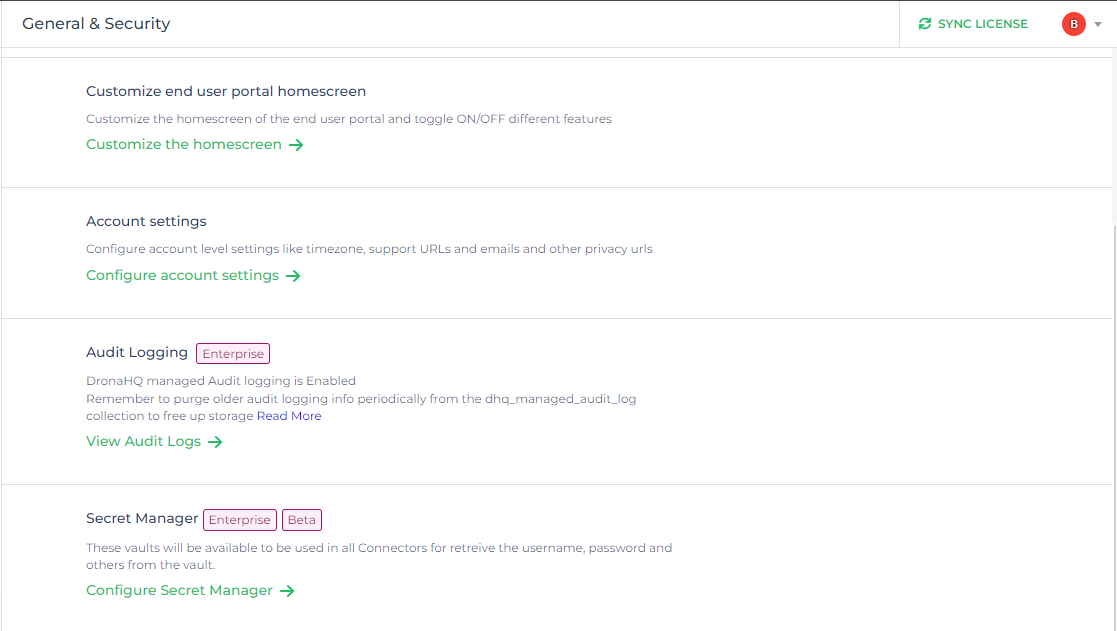
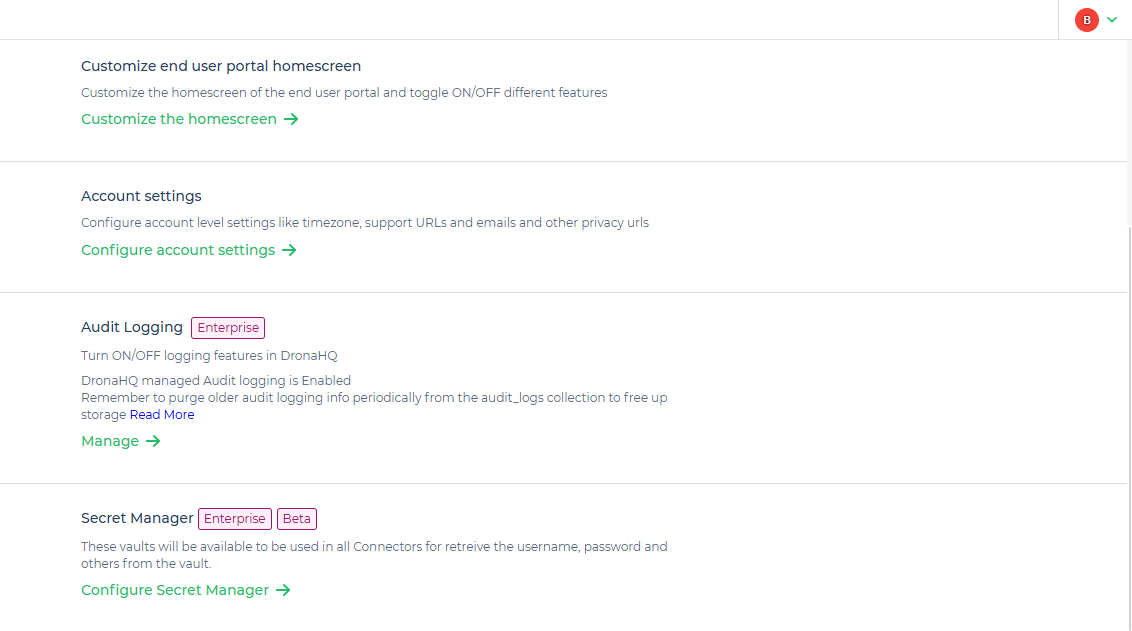
DHQ managed audit log db env var update and collection name and db update

diff --git a/docs/audit-logger/overview.md b/docs/audit-logger/overview.md
@@ -24,9 +24,9 @@ DronaHQ Managed Audit Logging is supported only on self hosted version.
 
 To enable this feature you need to configure this environment variable on your self-hosted environment file
 
-    DHQ_MANAGED_AUDIT_LOG_ENABLED=’true’
+    DHQ_MANAGED_AUDIT_LOG_ENABLED=true
 
-Once this is enabled, your audit logs will be saved in the `dhq_managed_audit_log` collection which will be auto-created in your configured `DHQ_MONGODB_HOST` server with database name `DHQ_MONGODB_DATABASE`.
+Once this is enabled, your audit logs will be saved in the `audit_logs` collection which will be auto-created in your configured `MONGODB_HOST` server with database name `MONGODB_DATABASE`.
 The above variables are configured while setting up self-hosted instance.
 
  Once this is set up, go to `Account Settings -> General & Security -> Audit Logging` section, you will find `DronaHQ managed Audit Logging is Enabled` message and to View Audit logs you can click on `View Audit Logs` button
